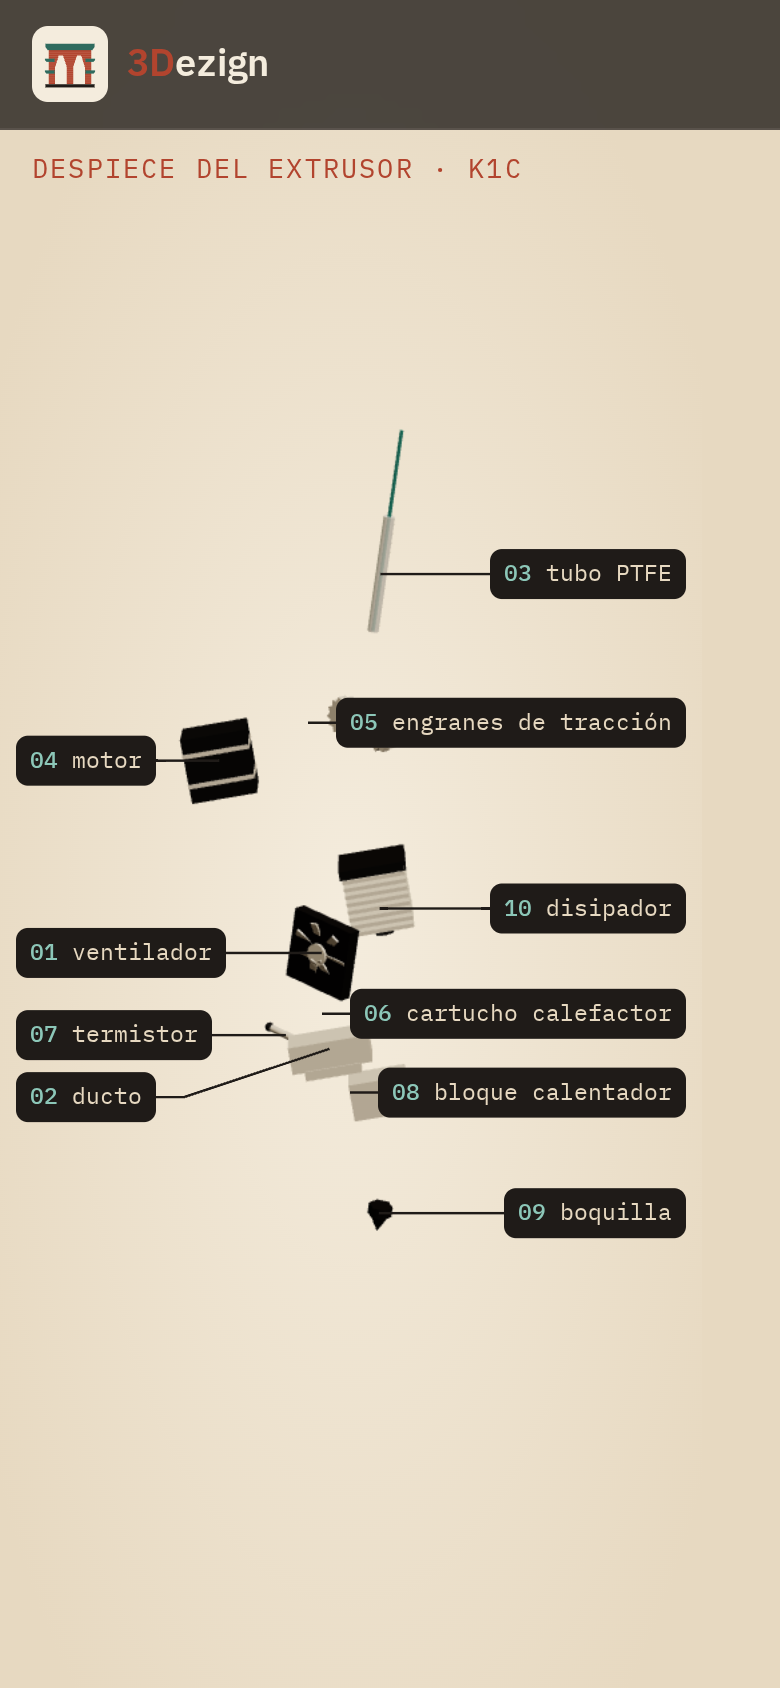
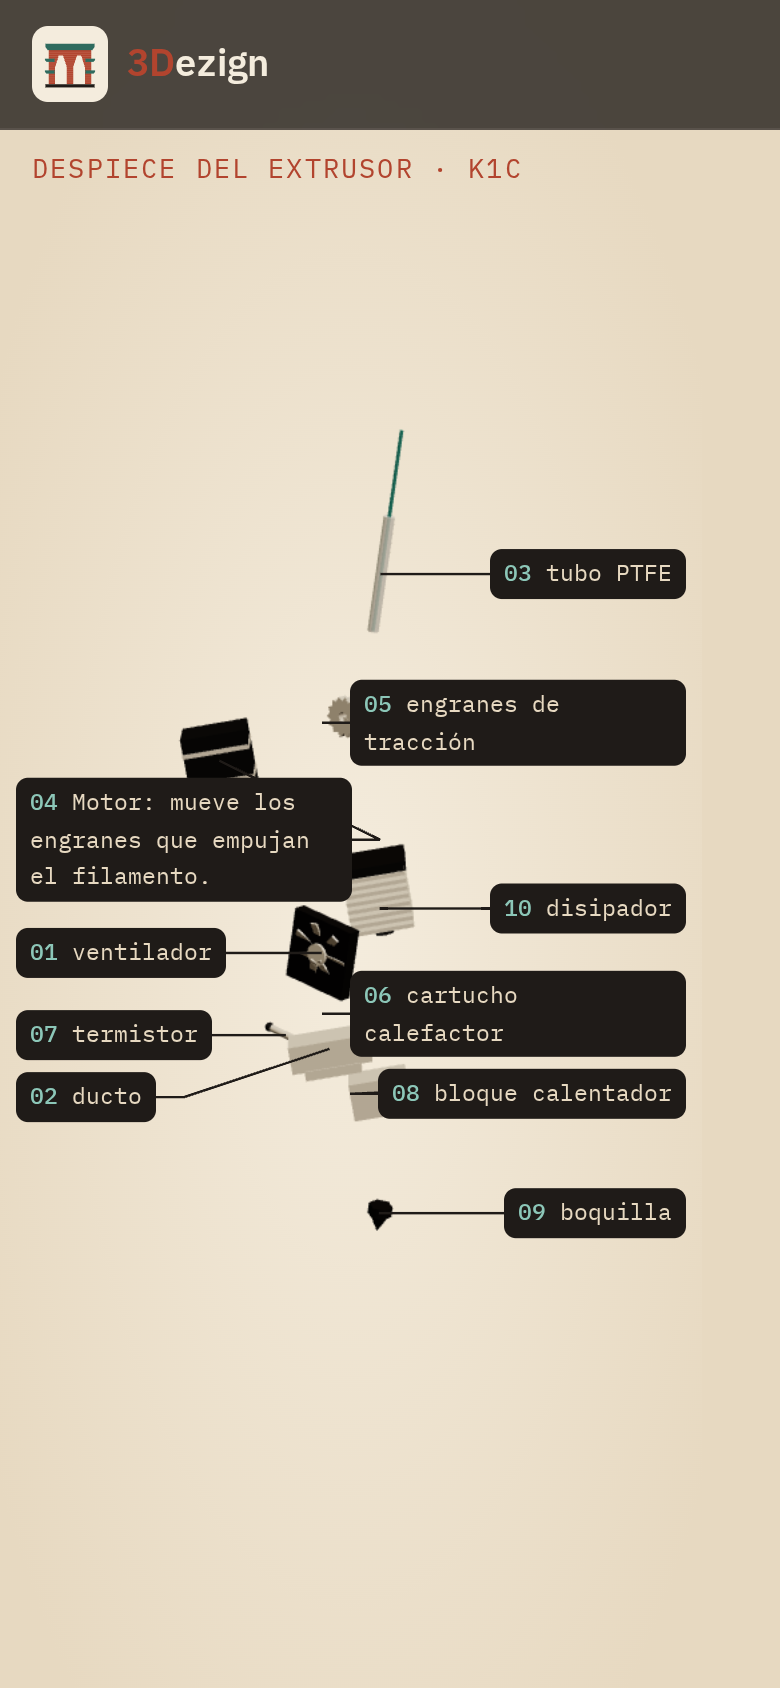
Despiece: rótulo del motor descriptivo; corrige polyline NaN (dibujo antes del layout); despqa falla si hay errores de consola

Changed region(s): [[0.0, 0.4005, 0.8923, 0.6469]]

diff --git a/src/despiece.js b/src/despiece.js
@@ -22,7 +22,7 @@ export function createDespiece(canvas, labelsEl, { reduced }) {
   add('ducto', A, (g, m) => { mesh(new THREE.BoxGeometry(1.0, 0.35, 0.5), m, 0, 0, 0, g); mesh(new THREE.BoxGeometry(0.7, 0.12, 0.3), m, 0, -0.22, 0.12, g); g.position.set(0, -0.62, 0.55); }, [0, -0.5, 1.3]);
   add('tubo PTFE', '#efe6d6', (g, m) => { m.transparent = true; m.opacity = 0.85; mesh(new THREE.CylinderGeometry(0.07, 0.07, 1.5, 16), m, 0, 0, 0, g);
     mesh(new THREE.CylinderGeometry(0.022, 0.022, 2.6, 8), new THREE.MeshStandardMaterial({ color: C.jade, emissive: new THREE.Color(C.jade), emissiveIntensity: 0.25 }), 0, 0.55, 0, g); g.position.set(0, 2.15, 0); }, [0, 2.4, 0]);
-  add('motor', K, (g, m) => { mesh(new THREE.BoxGeometry(0.85, 0.85, 0.7), m, 0, 0, 0, g); mesh(new THREE.BoxGeometry(0.87, 0.06, 0.72), mat(A), 0, 0.2, 0, g); mesh(new THREE.BoxGeometry(0.87, 0.06, 0.72), mat(A), 0, -0.2, 0, g); g.position.set(-0.75, 1.25, -0.1); }, [-1.5, 0.7, 0]);
+  add('Motor: mueve los engranes que empujan el filamento.', K, (g, m) => { mesh(new THREE.BoxGeometry(0.85, 0.85, 0.7), m, 0, 0, 0, g); mesh(new THREE.BoxGeometry(0.87, 0.06, 0.72), mat(A), 0, 0.2, 0, g); mesh(new THREE.BoxGeometry(0.87, 0.06, 0.72), mat(A), 0, -0.2, 0, g); g.position.set(-0.75, 1.25, -0.1); }, [-1.5, 0.7, 0]);
   add('engranes de tracción', A, (g, m) => { const geo = new THREE.ExtrudeGeometry(gearShape(0.26, 14), { depth: 0.14, bevelEnabled: false }); mesh(geo, m, -0.29, 0, 0, g); mesh(geo, m, 0.29, 0, 0, g); g.position.set(0, 1.25, 0); }, [0, 1.5, 0.5]);
   add('cartucho calefactor', K, (g, m) => { const c = mesh(new THREE.CylinderGeometry(0.09, 0.09, 0.9, 16), m, 0, 0, 0, g); c.rotation.z = Math.PI / 2; g.position.set(0.05, -0.62, 0.1); }, [1.5, -0.4, 0]);
   add('termistor', A, (g, m) => { const c = mesh(new THREE.CylinderGeometry(0.045, 0.045, 0.6, 12), m, 0, 0, 0, g); c.rotation.z = Math.PI / 2; mesh(new THREE.SphereGeometry(0.06, 10, 8), mat(K), -0.3, 0, 0, g); g.position.set(0.05, -0.8, -0.12); }, [-1.4, -0.9, 0]);
@@ -48,14 +48,16 @@ export function createDespiece(canvas, labelsEl, { reduced }) {
     const box = new THREE.Box3().setFromObject(root), c = box.getCenter(new THREE.Vector3()), sz = box.getSize(new THREE.Vector3());
     const t = Math.tan(THREE.MathUtils.degToRad(camera.fov / 2)), padW = mobile ? 1.9 : 1.35, padH = mobile ? 1.3 : 1.45;
     const d = Math.max(sz.y * padH / 2 / t, sz.x * padW / 2 / (t * camera.aspect)) + sz.z / 2;
-    camera.position.set(c.x, c.y + (mobile ? 0.25 : 0.2) * sz.y * 0.1, c.z + d); camera.lookAt(c.x, c.y, c.z); camera.updateProjectionMatrix();
+    camera.position.set(c.x, c.y + (mobile ? 0.25 : 0.2) * sz.y * 0.1, c.z + d); camera.lookAt(c.x, c.y, c.z); camera.updateProjectionMatrix(); ready = W > 1 && H > 1;
     hxs = parts.map(q => q.g.getWorldPosition(new THREE.Vector3()).project(camera).x);
     last = -1; draw(cur);
   }
   const sm = t => t * t * (3 - 2 * t), cl = (a, b, v) => Math.min(b, Math.max(a, v));
   let cur = reduced ? 0.78 : 0;
   const v = new THREE.Vector3();
+  let ready = false;
   function draw(p) {
+    if (!ready) return; // antes del primer layout la cámara está en el origen → proyecciones NaN
     // separación: 0.04–0.70 una por una; 0.70–0.82 abierto; 0.82–0.98 rearmado (todas juntas, en orden inverso)
     const back = sm(cl(0, 1, (p - 0.82) / 0.16));
     let active = -1;
@@ -92,7 +94,7 @@ export function createDespiece(canvas, labelsEl, { reduced }) {
       const lx = l.lx, ly = Math.min(H - l.h - 8, l.ty);
       l.el.style.transform = `translate(${lx}px,${ly}px)`;
       const ex = l.right ? lx : lx + l.w, ey = ly + l.h / 2, kx = ex + (l.right ? -14 : 14);
-      const ln = lines[l.i]; ln.setAttribute('points', `${ex},${ey} ${kx},${ey} ${l.px},${l.py}`); ln.style.opacity = l.show ? 1 : 0; ln.classList.toggle('on', l.el.classList.contains('on'));
+      if (![lx, ly, ex, kx, l.px, l.py].every(Number.isFinite)) return; const ln = lines[l.i]; ln.setAttribute('points', `${ex},${ey} ${kx},${ey} ${l.px},${l.py}`); ln.style.opacity = l.show ? 1 : 0; ln.classList.toggle('on', l.el.classList.contains('on'));
     });
   }
   addEventListener('resize', layout); requestAnimationFrame(layout);

diff --git a/src/style.css b/src/style.css
@@ -91,3 +91,4 @@ footer{position:relative;z-index:2}
 .dl b{color:#8cc7b8;font-weight:500}.dl.on{background:var(--terracota);color:var(--blanco)}.dl.on b{color:var(--crema)}
 @media (max-width:820px){.dl{font-size:.72rem;padding:.2rem .45rem}.dtit{top:4.6rem;left:1rem}}
 .dlines{position:absolute;inset:0;width:100%;height:100%;overflow:visible}.dlines polyline{fill:none;stroke:var(--carbon);stroke-width:1.2;transition:opacity .25s}.dlines polyline.on{stroke:var(--terracota);stroke-width:1.6}
+.dl{white-space:normal;max-width:17rem}@media (max-width:820px){.dl{max-width:10.5rem}}
